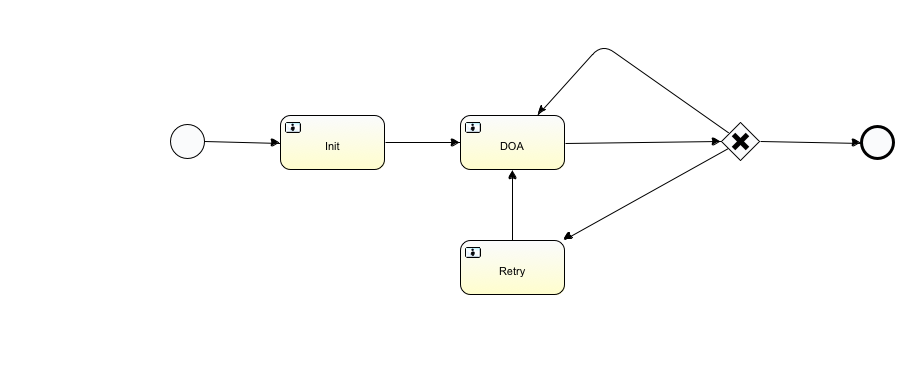
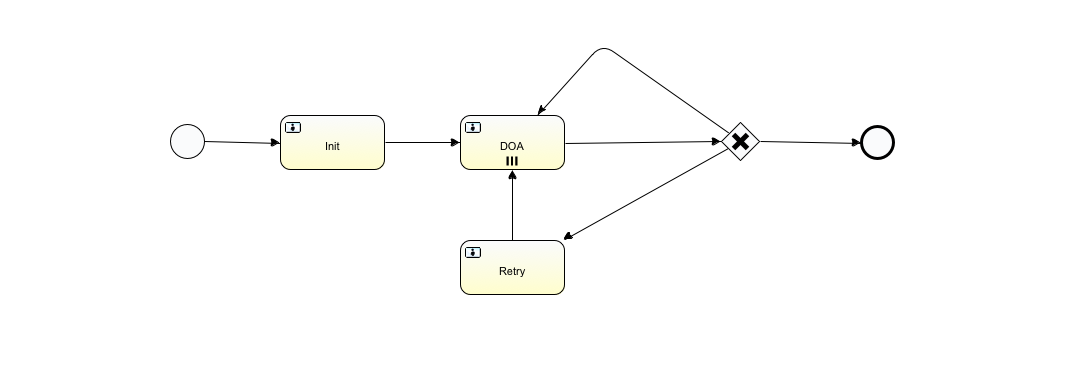
初

diff --git a/cornucopia/src/main/java/cornucopia/service/ProcessService.java b/cornucopia/src/main/java/cornucopia/service/ProcessService.java
@@ -109,8 +109,9 @@ public class ProcessService {
 			} else {
 				variables.put("to", "1");
 			}
-			variables.put("dealUser", nextUserId);
 		}
+		variables.put("assigneeList", nextUserIds);
+		variables.put("condition", 0);
 		ActivitiHelper.GetEngine().getTaskService().complete(task.getId(), variables);
 	}
 
